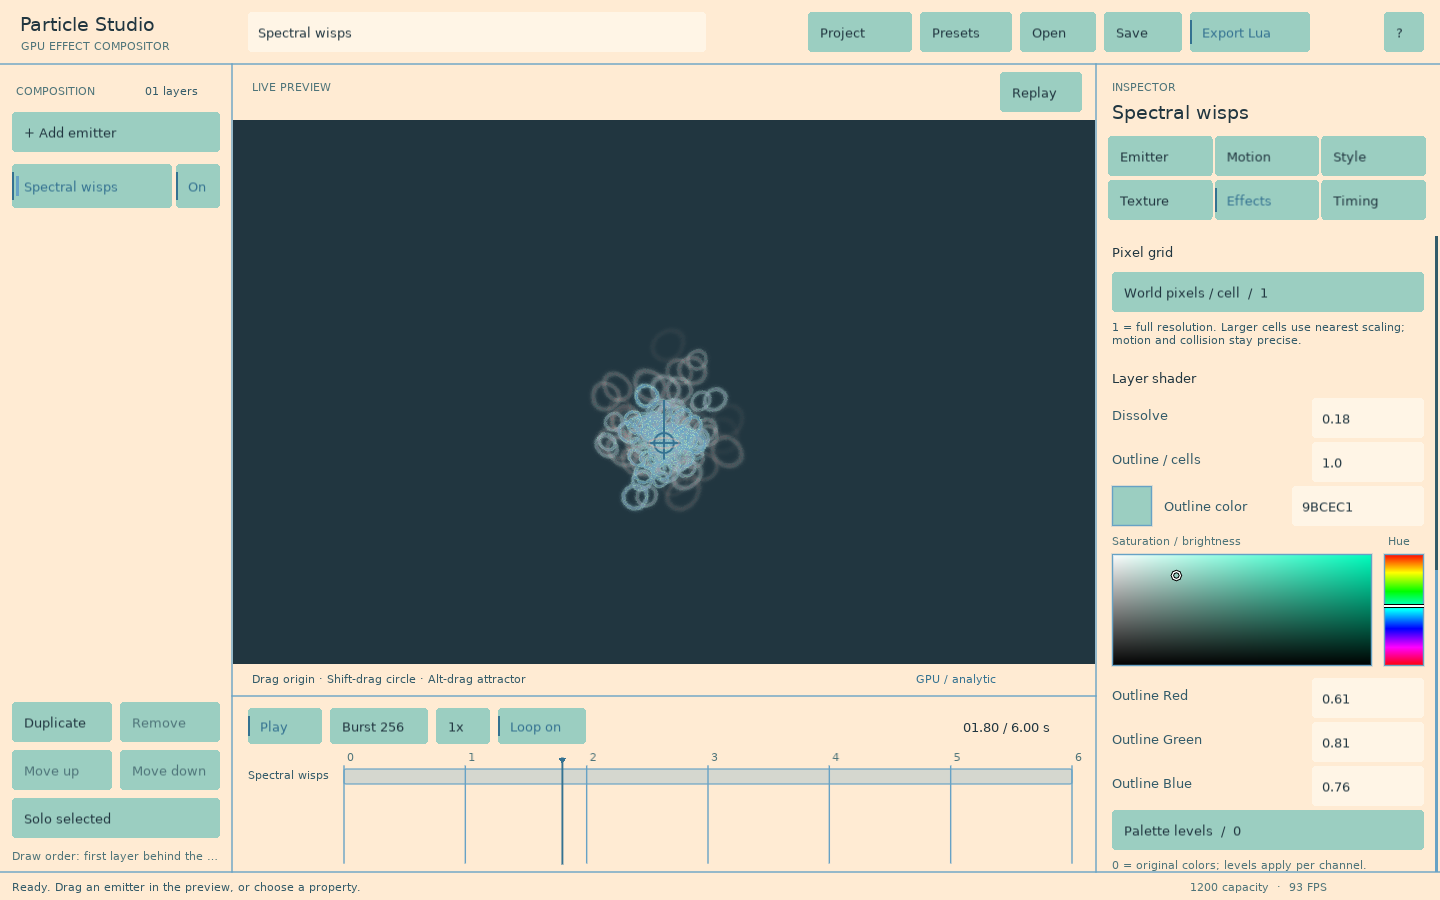
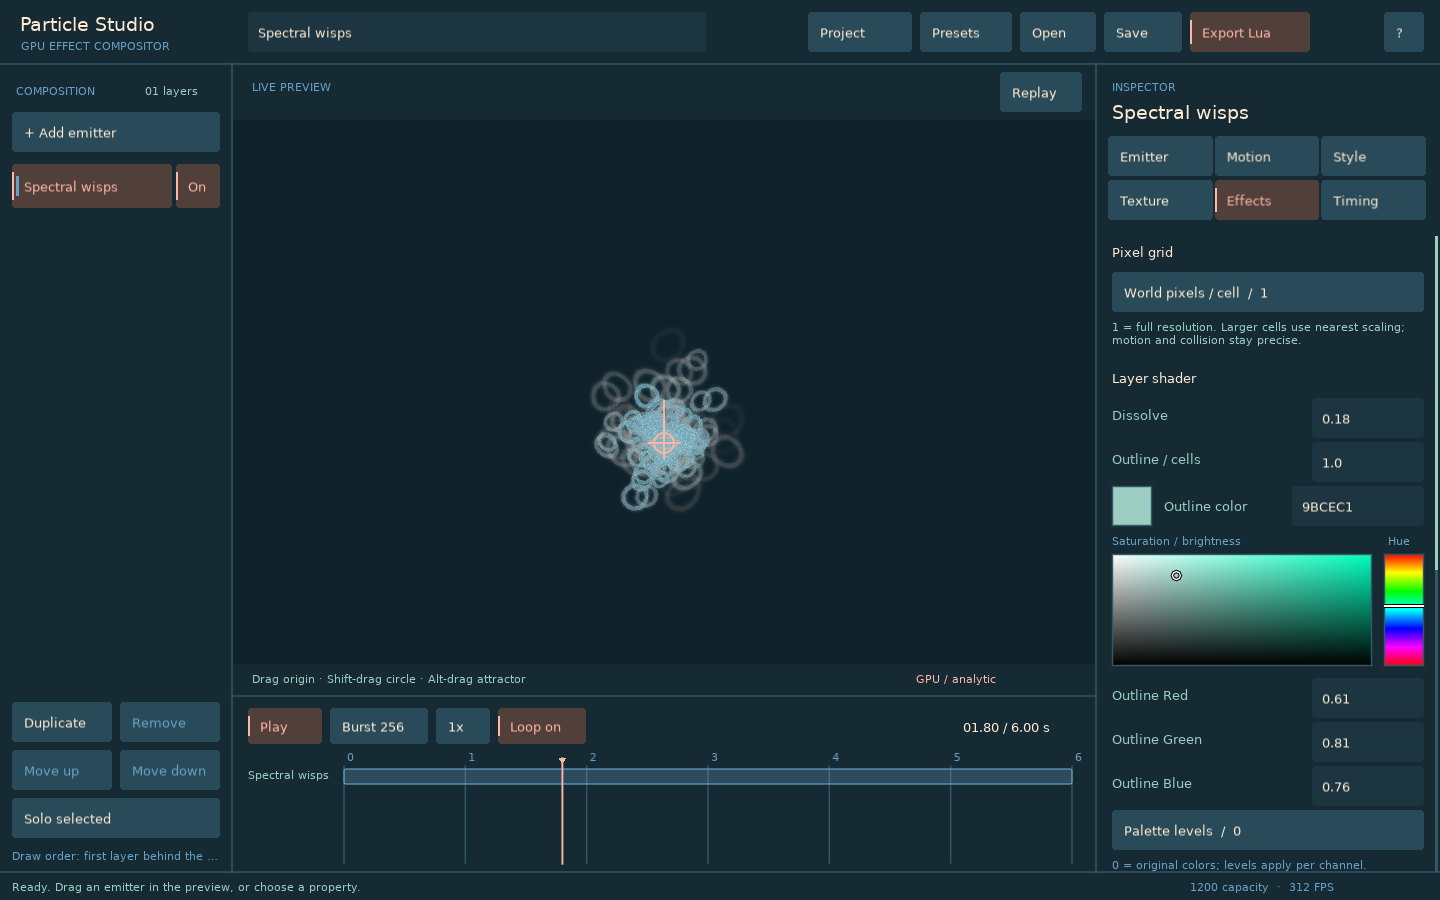
Add dark editor and animated examples

diff --git a/scripts/capture_gifs.py b/scripts/capture_gifs.py
@@ -1,0 +1,51 @@
+#!/usr/bin/env python3
+"""Capture animated documentation examples through LÖVE and encode compact GIFs."""
+from pathlib import Path
+import argparse
+import re
+import shutil
+import subprocess
+
+parser = argparse.ArgumentParser()
+parser.add_argument('--love', default=shutil.which('love') or '/Applications/love.app/Contents/MacOS/love')
+parser.add_argument('--ffmpeg', default=shutil.which('ffmpeg') or 'ffmpeg')
+options = parser.parse_args()
+root = Path(__file__).resolve().parents[1]
+
+examples = [
+    ('comparison-mouse', 'comparison', ('--mouse-collision',)),
+    ('colliders', 'colliders', ()),
+    ('custom-shaders', 'custom-shaders', ()),
+    ('waterfall-plants', 'waterfall', ('--plant-collision',)),
+    ('waterfall-volume-mouse', 'waterfall', ('--water-volume', '--mouse-collision')),
+    ('volume-smoke-smooth', 'volume', ('--preset=smoke', '--smooth')),
+    ('volume-steam-pixel', 'volume', ('--preset=steam',)),
+    ('volume-water-pixel', 'volume', ('--preset=water',)),
+]
+
+for name, project, arguments in examples:
+    command = [options.love, str(root / 'examples' / project), '--smoke', '--gif', f'--gif-name={name}', *arguments]
+    result = subprocess.run(command, text=True, capture_output=True, timeout=120)
+    output = result.stdout + result.stderr
+    print(output, end='')
+    match = re.search(r'^GIF_FRAMES (.+)$', output, re.MULTILINE)
+    if result.returncode or not match:
+        raise RuntimeError(f'{name}: LÖVE capture failed with exit {result.returncode}')
+    pattern = Path(match.group(1))
+    destination = root / 'previews' / f'{name}.gif'
+    filters = (
+        'fps=12,scale=960:-1:flags=lanczos,split[s0][s1];'
+        '[s0]palettegen=max_colors=128:stats_mode=diff[p];'
+        '[s1][p]paletteuse=dither=bayer:bayer_scale=3:diff_mode=rectangle'
+    )
+    subprocess.run([
+        options.ffmpeg, '-hide_banner', '-loglevel', 'error', '-y', '-framerate', '12',
+        '-i', str(pattern), '-filter_complex', filters, '-loop', '0', str(destination),
+    ], check=True, timeout=120)
+    for frame in pattern.parent.glob(pattern.name.replace('%03d', '*')):
+        frame.unlink()
+    docs = root / 'docs' / 'assets' / 'images' / destination.name
+    shutil.copy2(destination, docs)
+    print(f'GIF_CAPTURE {destination} ({destination.stat().st_size // 1024} KiB)')
+
+print('GIF CAPTURE COMPLETE')

diff --git a/examples/waterfall/README.md b/examples/waterfall/README.md
@@ -24,7 +24,7 @@ In volume mode, **V** stops/resumes inflow; accumulated water remains and contin
 
 The volume grid replaces the fixed pool, ribbons, droplets, and authored spray/mist while enabled. Those particle emitters pause, so an obstructed stream cannot leave a decorative waterfall running downstream. This is an alternative waterfall representation, not particle-to-grid fluid coupling or a new `gpuparticles.newEmitter` option. The editor and comparison continue to use their particle systems.
 
-[Accumulation preview](../../previews/waterfall-volume.png) · [Mouse dam preview](../../previews/waterfall-volume-mouse.png)
+[Accumulation preview](../../previews/waterfall-volume.png) · [Mouse dam preview](../../previews/waterfall-volume-mouse.gif)
 
 The implementation in [fluid.lua](../../example_support/waterfall/fluid.lua) uses **160×100 cells** at **8 world pixels per cell**, with three transport relaxations per 1/120-second scene step. Each relaxation computes four outgoing neighbor fluxes and then gathers them into the next state canvas. Outgoing mass is bounded by available mass, and neighbor transfers conserve volume. The nominal source supplies **12000 world px² per simulated second**, divided across relaxations; a submerged or blocked source admits only available space. The source is independent of decorative particle counts and lifetimes.
 
@@ -50,7 +50,7 @@ The **51 nearby ferns** are two mesh batches. Their roots stay fixed while a ver
 
 Move the circle over the ferns on the ledges or foreground to brush them. This is an artistic contact approximation, not cloth or per-leaf collision: deep overlap and very large circles can still intersect foliage. Spring displacement is bounded. Two plant draws upload spring offsets as uniforms; mesh vertices are built once, and there is no GPU readback.
 
-[Plant contact preview](../../previews/waterfall-plants.png) · [Plant geometry and springs](../../example_support/waterfall/plants.lua) · [Wind/deformation shader](../../example_support/waterfall/shaders/plants.glsl)
+[Plant contact preview](../../previews/waterfall-plants.gif) · [Plant geometry and springs](../../example_support/waterfall/plants.lua) · [Wind/deformation shader](../../example_support/waterfall/shaders/plants.glsl)
 
 Edit [terrain.lua](../../example_support/waterfall/terrain.lua) to move, resize, or rotate rocks. Drawing and the distance-field generator use the same shape definitions. The 640×400 float texture covers a 1280×800 world and stores signed distance in world pixels. Its linear filtering is intentional; particle-state canvases remain nearest-filtered. If the rocks move, rebuild the field and adjust the artistic ribbons/impact emitters to match.
 

diff --git a/docs/tools/examples.md b/docs/tools/examples.md
@@ -27,7 +27,7 @@ love particle-gpu/examples/custom-shaders
 
 This example injects a seeded helix displacement with `gpu.forces.custom`, then draws the emitter through a regular LÖVE fragment shader for color separation and glow. Press **G** to disable the fragment pass and compare it with the raw analytic particles.
 
-![Custom analytic movement with fragment glow](../assets/images/custom-shaders.png)
+![Custom analytic movement with fragment glow](../assets/images/custom-shaders.gif)
 
 ## Moving colliders
 
@@ -37,7 +37,7 @@ love particle-gpu/examples/colliders
 
 Press **1**, **2**, or **3** to attach a circle, axis-aligned box, or rotating capsule to the mouse. The example keeps the same stateful particle stream while each collider moves through uniforms.
 
-![Circle, box, and capsule collision example](../assets/images/colliders.png)
+![Circle, box, and capsule collision example](../assets/images/colliders.gif)
 
 ## Native versus GPU
 
@@ -68,7 +68,7 @@ love particle-gpu waterfall
 
 Basalt Falls combines stateful droplet collision, an optional particle contact pass, persistent water volume, mouse interaction, shader curtains, and responsive plant meshes. Distant vegetation stays cached; nearby ferns use GPU wind deformation and lightweight spring response for contact.
 
-![Waterfall with shader-deformed plants](../assets/images/waterfall-plants.png)
+![Waterfall with shader-deformed plants](../assets/images/waterfall-plants.gif)
 
 ## Volume materials
 
@@ -78,4 +78,4 @@ love particle-gpu volume
 
 Cycle water, smoke, and hot-water-to-steam presets and toggle pixel or smooth rendering.
 
-![Pixel water volume](../assets/images/volume-water-pixel.png)
+![Pixel water volume](../assets/images/volume-water-pixel.gif)

diff --git a/editor/DESIGN.md b/editor/DESIGN.md
@@ -10,7 +10,7 @@ All components use a 4 px spacing base, 12–16 px panel insets, a 40 px primary
 
 Component checkpoints:
 
-- Preview: dominant open ink surface, peach emitter gizmos, direct dragging, and no decorative background grid. Fill the drawable panel beneath its 56 px control strip and above its 32 px status strip. Preserve world proportions and expand visible world bounds, keeping particles, shader canvases, and hit testing aligned without an inner letterbox.
+- Preview: dominant dark ink surface, peach emitter gizmos, direct dragging, and no decorative background grid. The surrounding editor uses dark blue surfaces with beige text and teal secondary labels. Fill the drawable panel beneath its 56 px control strip and above its 32 px status strip. Preserve world proportions and expand visible world bounds, keeping particles, shader canvases, and hit testing aligned without an inner letterbox.
 - Layers: narrow supporting column, compact selectable rows, explicit visibility and solo controls, matched layer colors in the timeline.
 - Inspector: consistent inset fields and amber keyboard focus, six tabs arranged in two rows, independent scrolling, numeric entry as well as dragging.
 - Numbers: click to type; drag either the value or its label along the initial horizontal/vertical axis (right/up increases). A 3 px threshold separates clicks from drags, Shift reduces sensitivity tenfold, and bounds clamp continuously with immediate reversal. Values follow each field's displayed precision. Release creates one undo step; Escape restores the previous value. Attractor strength shows pull at 100 px with a nearby units explanation.

diff --git a/examples/comparison/README.md b/examples/comparison/README.md
@@ -14,7 +14,7 @@ Both panels share the texture, emission settings, color curve, particle lifetime
 
 **C** enables a mouse obstacle. Hover either panel: the circle is shown at matching positions in both, with GPU particles colliding and native particles passing through. Scroll the wheel to change radius. Leaving the particle panels disables contact. Enabling the obstacle selects stateful mode and clears old benchmark results. **B** disables it and restores the previous mode before running a matched benchmark. **M** also exits the collision demonstration.
 
-[Mouse collision preview](../../previews/comparison-mouse.png)
+[Mouse collision preview](../../previews/comparison-mouse.gif)
 
 **S** switches to a GPU **particle-contact off/on** comparison. Both sides use stateful simulation with the same seed, texture, spawn settings, four-second lifetime, and floor; the right additionally resolves particle contacts. **Up/Down** selects **256, 512, 1024, 2048, 5000, or 10000** particles. **I** cycles through 1–4 contact iterations, **[/]** changes visual size and contact diameter, and **C** applies the same mouse obstacle to both. Press **S** again to restore the regular native/GPU settings. The native LÖVE ParticleSystem has no equivalent particle-contact feature, so the GPU baseline isolates this feature's cost.
 

diff --git a/docs/particles/collision.md b/docs/particles/collision.md
@@ -2,7 +2,7 @@
 
 Collision requires current particle state, so `mode='auto'` selects the stateful backend. The solver projects a penetrated particle out of a surface and changes its normal and tangential velocity using bounce and friction.
 
-![GPU particles colliding with a mouse-controlled circle](../assets/images/comparison-mouse.png)
+![GPU particles colliding with a mouse-controlled circle](../assets/images/comparison-mouse.gif)
 
 ## Floor plane
 
@@ -86,7 +86,7 @@ Calling a collider setter with no arguments disables that shape. Boxes remain ax
 
 All three setters only change uniforms. They do not upload particle data, rebuild shaders, or read state back to the CPU. Coordinates must be in simulation space: undo camera translation, scale, or viewport transforms before sending pointer coordinates. Colliders do not transfer their velocity and can skip particles when moved too far between simulation steps.
 
-![Particles colliding with a moving capsule](../assets/images/colliders.png)
+![Particles colliding with a moving capsule](../assets/images/colliders.gif)
 
 ## Particle-to-particle collision
 

diff --git a/docs/volumes/smoke-and-reactions.md b/docs/volumes/smoke-and-reactions.md
@@ -2,7 +2,7 @@
 
 Gas materials share velocity and pressure fields. Density is advected by wind, accelerated by buoyancy and custom forces, diffused by the finite grid, and reduced through dissipation.
 
-![Smooth smoke volume](../assets/images/volume-smoke-smooth.png)
+![Smooth smoke volume](../assets/images/volume-smoke-smooth.gif)
 
 ## Configure smoke
 
@@ -70,6 +70,6 @@ world:addHeat(400, 600, 50, 2, water)
 
 The reaction transfers density and proportional heat in the same cell. Its per-step conversion fraction is `1 - exp(-rate * dt)`. Rules run in insertion order and can be started, stopped, retuned, or released.
 
-![Pixel steam produced by a thermal reaction](../assets/images/volume-steam-pixel.png)
+![Pixel steam produced by a thermal reaction](../assets/images/volume-steam-pixel.gif)
 
 This mechanism handles material-to-gas conversion. Combustion, sand, freezing, latent heat, gas expansion, bubbles, and equal-and-opposite water/gas forces are outside its current model.

diff --git a/examples/volume/README.md b/examples/volume/README.md
@@ -25,7 +25,7 @@ This example uses the public [`gpuparticles.newVolumeWorld` API](../../VOLUME_AP
 
 The 960×480 world uses a 160×80 grid and scales into the viewport. Water is conservative but compressible. Smoke has velocity, pressure, density, and temperature transport. Reactions are thermal conversions, not a chemistry engine. Gas is not mass-conservative and does not exchange pressure forces with water. See the API's units, costs, and limitations before using it for gameplay.
 
-[Pixel smoke](../../previews/volume-smoke-pixel.png) · [Smooth smoke](../../previews/volume-smoke-smooth.png) · [Water](../../previews/volume-water-pixel.png) · [Steam](../../previews/volume-steam-smooth.png)
+[Pixel smoke](../../previews/volume-smoke-pixel.png) · [Smooth smoke](../../previews/volume-smoke-smooth.gif) · [Water](../../previews/volume-water-pixel.gif) · [Steam](../../previews/volume-steam-pixel.gif)
 
 ```sh
 love particle-gpu volume-test

diff --git a/CONTRIBUTING.md b/CONTRIBUTING.md
@@ -37,6 +37,14 @@ zensical build --clean --strict
 
 Generated files are written to the ignored `site/` directory. The `Documentation site` GitHub workflow builds that directory and deploys it to GitHub Pages on documentation changes. Keep task guides in `docs/`; update `API.md` or `VOLUME_API.md` alongside public API changes.
 
+Animated examples are captured directly from LÖVE and encoded with `ffmpeg`. Regenerate the documented GIFs after changing their visuals or motion:
+
+```sh
+python3 scripts/capture_gifs.py
+```
+
+The script writes 24-frame, 12 FPS loops to both `previews/` and `docs/assets/images/`, then removes its temporary PNG frames.
+
 ## Before opening a pull request
 
 Run the checks relevant to the change:

diff --git a/README.md b/README.md
@@ -8,7 +8,7 @@ GPU particles, collision, and material volumes for **LÖVE 11.x**. No compute sh
 
 gpuparticles keeps spawn records and simulation state on the GPU. Simple effects draw hundreds of thousands of particles with one instanced call; stateful effects add environment collision, mouse obstacles, attractors, and flow fields. A separate grid simulation provides accumulating water, rising smoke, editable terrain, and thermal reactions.
 
-![A persistent waterfall redirected by a circular mouse obstacle](previews/waterfall-volume-mouse.png)
+![A persistent waterfall redirected by a circular mouse obstacle](previews/waterfall-volume-mouse.gif)
 
 ## When should I use it?
 

diff --git a/examples/custom-shaders/README.md b/examples/custom-shaders/README.md
@@ -13,4 +13,4 @@ love examples/custom-shaders
 
 Press **G** to compare the raw particles with the fragment effect, **Space** for a burst, and **R** to reset. The canvas pass adds fill-rate and texture-sampling cost; the custom analytic movement itself still uses one instanced particle draw and no per-particle CPU update.
 
-![Custom analytic movement with fragment glow](../../previews/custom-shaders.png)
+![Custom analytic movement with fragment glow](../../previews/custom-shaders.gif)

diff --git a/examples/colliders/README.md b/examples/colliders/README.md
@@ -8,4 +8,4 @@ love examples/colliders
 
 Press **1**, **2**, or **3** to choose a shape and move the mouse to reposition it. Capsules rotate to demonstrate non-axis-aligned segments. Each setter updates uniforms without rebuilding particle buffers, shaders, canvases, or collision textures.
 
-![Particles colliding with a moving capsule](../../previews/colliders.png)
+![Particles colliding with a moving capsule](../../previews/colliders.gif)
